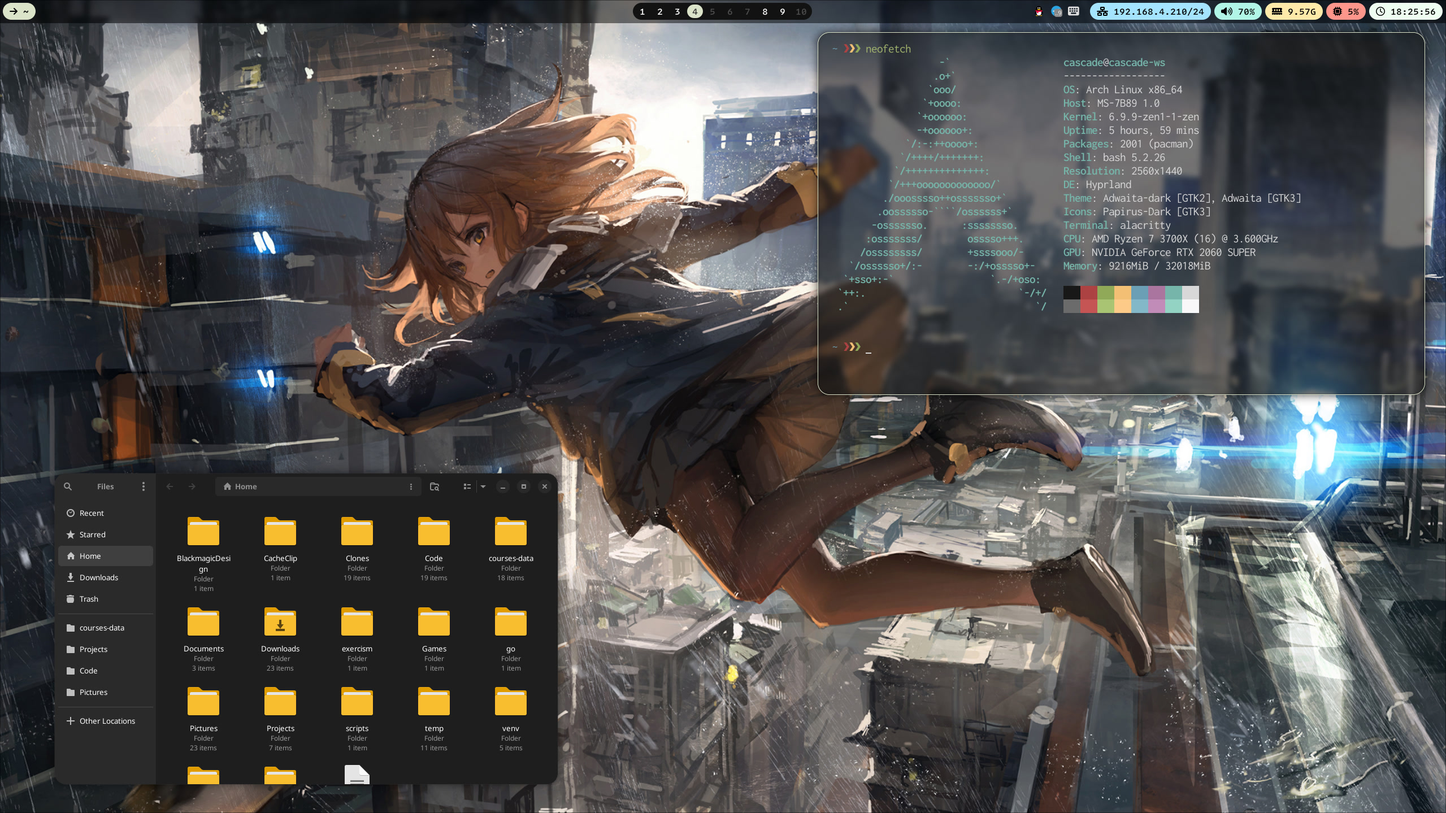
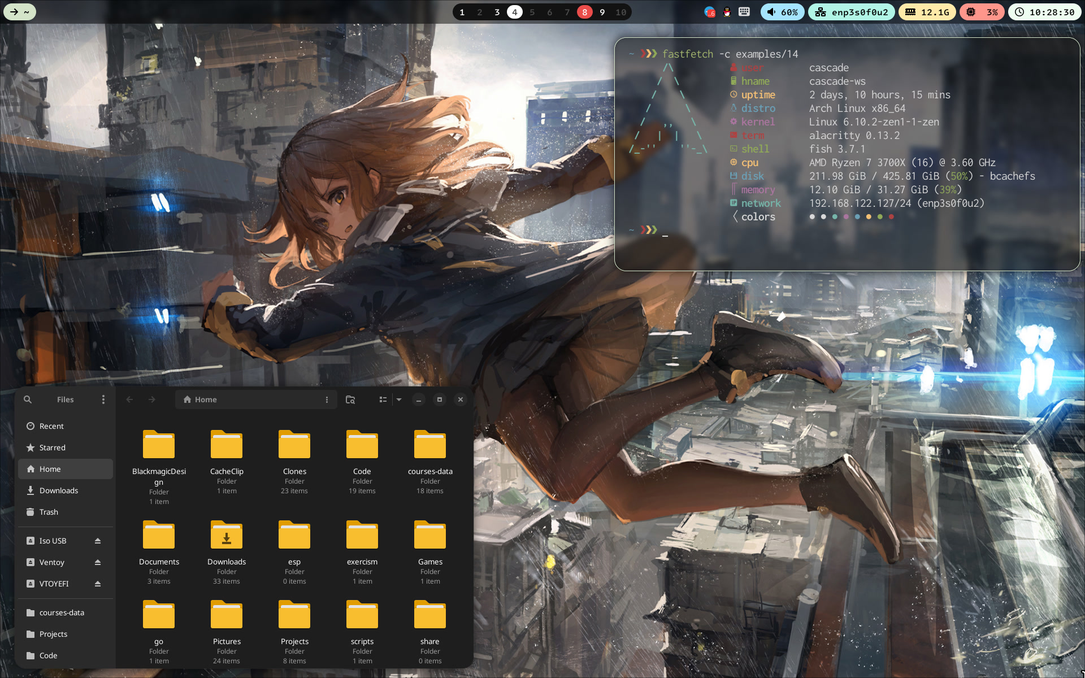
Update many configurations

diff --git a/waybar/style.css b/waybar/style.css
@@ -20,6 +20,12 @@ window#waybar.hidden {
     opacity: 0.2;
 }
 
+tooltip {
+    background-color: rgba(18, 18, 18, 0.8);
+    border: 1px solid rgba(34, 34, 34, 0.5);
+    border-radius: 15px;
+}
+
 #clock,
 #cpu,
 #memory,
@@ -66,7 +72,7 @@ window#waybar.hidden {
 }
 
 #workspaces button.active {
-    background: #dbe3c8;
+    background: #ffffff;
     color: #2f2f2f;
 }
 
@@ -105,12 +111,12 @@ window#waybar.hidden {
 }
 
 #pulseaudio {
-    background-color: #b0f5e5;
+    background-color: #a4e4fe;
     color: #000000;
 }
 
 #network {
-    background-color: #a4e4fe;
+    background-color: #b0f5e5;
     color: #000000;
 }
 
@@ -120,6 +126,6 @@ window#waybar.hidden {
 }
 
 #window {
-    background-color: #dbe3c8;
+    background-color: #d3e4c9;
     color: #000000;
 }

diff --git a/README.md b/README.md
@@ -3,11 +3,11 @@
 ## Dotfiles
 This repository stores my desktop configuration. The main branch will keep updated with the configuration on my computer.
 
-The dotfiles have some specific configurations for NVIDIA, if you are using other graphics adapters, you may need to remove these configs
+The dotfiles have some specific configurations for NVIDIA, if you are using other graphics adapters, you may need to remove these configs.
 
 ### PC Build
 | Component | Name |
 | --------: | - |
 | CPU | AMD Ryzen 7 3700X |
 | Graphics | NVIDIA GeForce RTX 2060 SUPER |
-| Monitor | 2560x1080 or 2560x1440 |
+| Monitor | 2560x1080 @ 200Hz <br/> 2560x1440 @ 165Hz <br/> 1920x1200 @ 144Hz |
